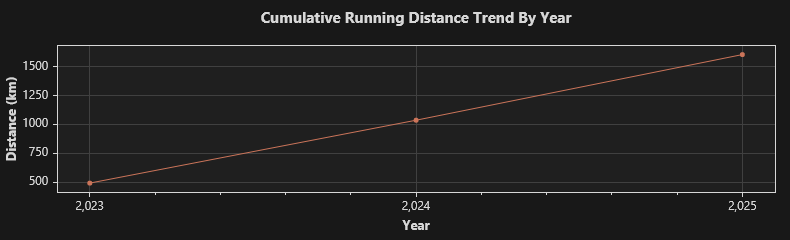
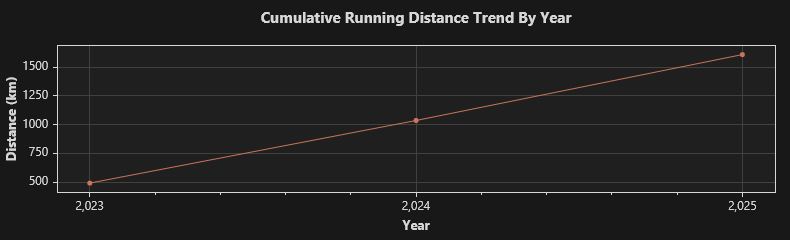
2025/11/6 跑步 5.04 公里

diff --git a/trend.md b/trend.md
@@ -1,4 +1,4 @@
-### Total: 269 days, 1605.63 km.
+### Total: 270 days, 1610.67 km.
 
 
 ![Monthly](https://github.com/prime167/MyRunningLog/blob/main/data/CumulativeTrendByMonth.png)
